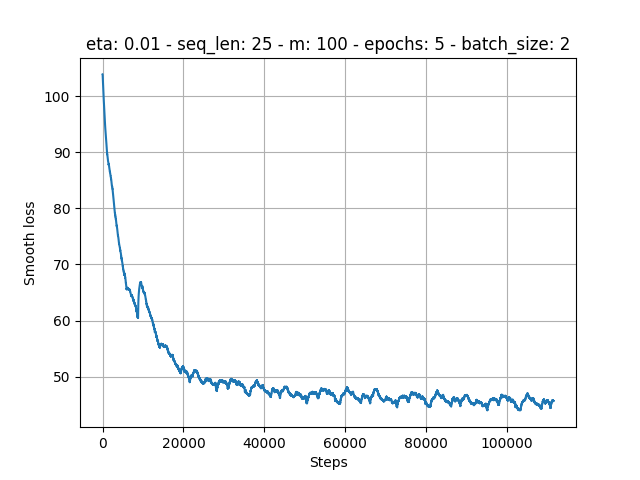
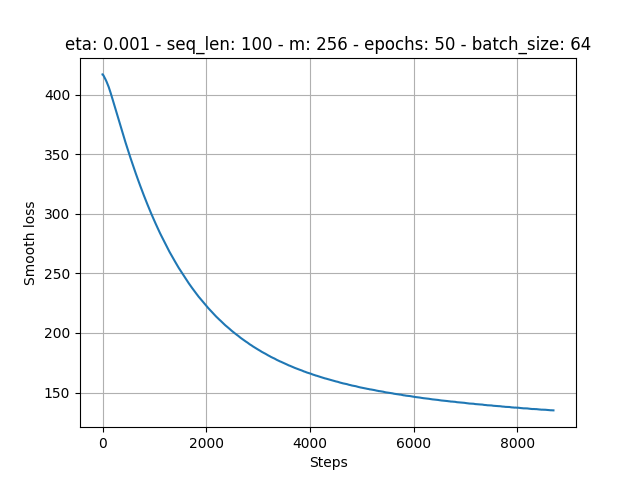
feat: more comprehensive training output for lstm and a long test run added

diff --git a/src/nlpProject/train.py b/src/nlpProject/train.py
@@ -1,5 +1,6 @@
 import torch
 import matplotlib.pyplot as plt
+import time
 
 from nlpProject.one_layer_lstm import LSTM1
 from nlpProject.make_data import DataMaker
@@ -18,6 +19,7 @@ def train_lstm1(data_path, n_epochs, hidden_size, seq_length, batch_size, learni
                       torch.zeros(model.hidden_size, batch_size, dtype=torch.double))
 
     model.train()
+    start_time = time.time()
     while epoch < n_epochs:
         X_batch = []
         Y_batch = []
@@ -67,6 +69,14 @@ def train_lstm1(data_path, n_epochs, hidden_size, seq_length, batch_size, learni
         else:
             h_prev.detach_()
             c_prev.detach_()
+    end_time = time.time()
+    duration = end_time - start_time
+    _, s_lsyn = synthesize_seq_lstm1(model, data_path, h_prev[:, 0:1], c_prev[:, 0:1], X_train[:, 0, 0], 5000)
+    print("-" * 100)
+    print(f"Benchmark synthesized sequence: \n{s_lsyn}")
+    print("-" * 100)
+    print(f'No. of steps: {step + 1}.')
+    print(f'Time elapsed ({batch_size} samples per batch, {n_epochs} epochs): {(end_time - start_time):.1f} seconds.')
 
     plt.figure()
     plt.plot(losses)
@@ -80,4 +90,4 @@ def train_lstm1(data_path, n_epochs, hidden_size, seq_length, batch_size, learni
         plt.show()
 
 if __name__ == '__main__':
-    train_lstm1('./data/shakespeare.txt', 5, 100, 25, 2, 0.01, './reports/figures/lstm_1_layer_test')
+    train_lstm1('./data/shakespeare.txt', 50, 256, 100, 64, 0.001, './reports/figures/lstm_1_layer_test')
